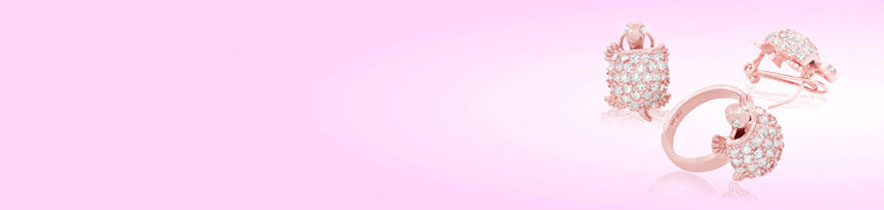
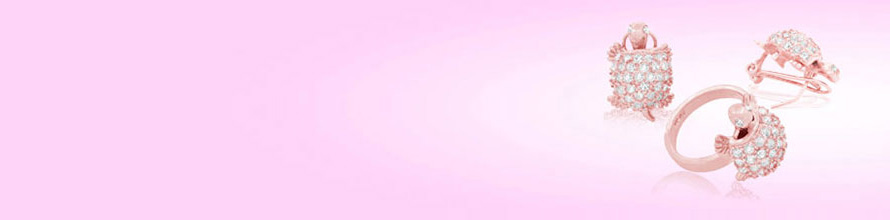
Ajustes
- fb-share (image default facebook)
- banner largo home corregido
- .current btn en home y footer para todos los productos

Changed region(s): [[0.6719, 0.1143, 0.9468, 0.8857]]

diff --git a/css/main.css b/css/main.css
@@ -227,7 +227,7 @@ form.navbar-right {
 
 
 .banner-lg{
-	width:884px !important;
+	width:890px !important;
 	height:200px !important;
 	overflow:hidden;
 }
@@ -263,7 +263,7 @@ form.navbar-right {
 	height:200px;
 }
 .txt.lg{
-	width:884px;
+	width:890px;
 	height:200px;
 }
 .txt.sm{

diff --git a/sections/layout/header.php b/sections/layout/header.php
@@ -16,17 +16,14 @@
           <!-- <li><a href="./">Home</a></li> -->
           <li class="link-flip"><a href="about-us.html" class="<?php if($section=='about-us'){ echo("current"); }?>">About Us</a></li>
           <li class="link-flip"><a href="buying-process.html" class="<?php if($section=='buying-process'){ echo("current"); }?>">Buying process</a></li>
-          <li class="link-flip"><a href="products.html" class="<?php if($section=='products'){ echo("current"); }?>">Products</a></li>
+          <li class="link-flip"><a href="products.html" class="<?php if($section=='products' || $section=='products-earrings' || $section=='products-chain-necklaces' || $section=='products-jewellery-sets' || $section=='products-rose-jewellery' || $section=='products-watches' || $section=='products-charms' || $section=='products-religious' || $section=='products-customized-jewellery' || $section=='products-rings' || $section=='products-bracelets' || $section=='products-various'){ echo("current"); }?>">Products</a></li>
           <li class="link-flip"><a href="brochure.html" class="<?php if($section=='brochure'){ echo("current"); }?>">Brochure</a></li>
           <li class="link-flip"><a href="contact-us.html" class="<?php if($section=='contact-us'){ echo("current"); }?>">Contact Us</a></li>
         </ul>
         <form class="navbar-form navbar-right" role="form" action="">
           <div class="form-group">
-            <input type="text" placeholder="Search" class="form-control">
+            <input type="text" placeholder="Search.." class="form-control">
           </div>
-          <!-- <div class="form-group">
-            <input type="password" placeholder="Password" class="form-control">
-          </div> -->
           <button type="submit" class="btn btn-success"><i class="fa fa-search" aria-hidden="true"></i></button>
         </form>
 

diff --git a/sections/layout/footer.php b/sections/layout/footer.php
@@ -7,7 +7,7 @@
       <li><a href="./" class="<?php if($section=='home'){ echo("current"); }?>">Home</a></li>
       <li><a href="about-us.html" class="<?php if($section=='about-us'){ echo("current"); }?>">About Us</a></li>
       <li><a href="buying-process.html" class="<?php if($section=='buying-process'){ echo("current"); }?>">Buying process</a></li>
-      <li><a href="products.html" class="<?php if($section=='products'){ echo("current"); }?>">Products</a></li>
+      <li><a href="products.html" class="<?php if($section=='products' || $section=='products-earrings' || $section=='products-chain-necklaces' || $section=='products-jewellery-sets' || $section=='products-rose-jewellery' || $section=='products-watches' || $section=='products-charms' || $section=='products-religious' || $section=='products-customized-jewellery' || $section=='products-rings' || $section=='products-bracelets' || $section=='products-various'){ echo("current"); }?>">Products</a></li>
       <li><a href="brochure.html" class="<?php if($section=='brochure'){ echo("current"); }?>">Brochure</a></li>
       <li><a href="contact-us.html" class="<?php if($section=='contact-us'){ echo("current"); }?>">Contact Us</a></li>
     </ul>

diff --git a/sections/home.php b/sections/home.php
@@ -165,3 +165,5 @@
   </ul>
   <!-- </div>
 </div> -->
+
+<div style="clear:both;width:100%;display:block;height:50px;"></div>
